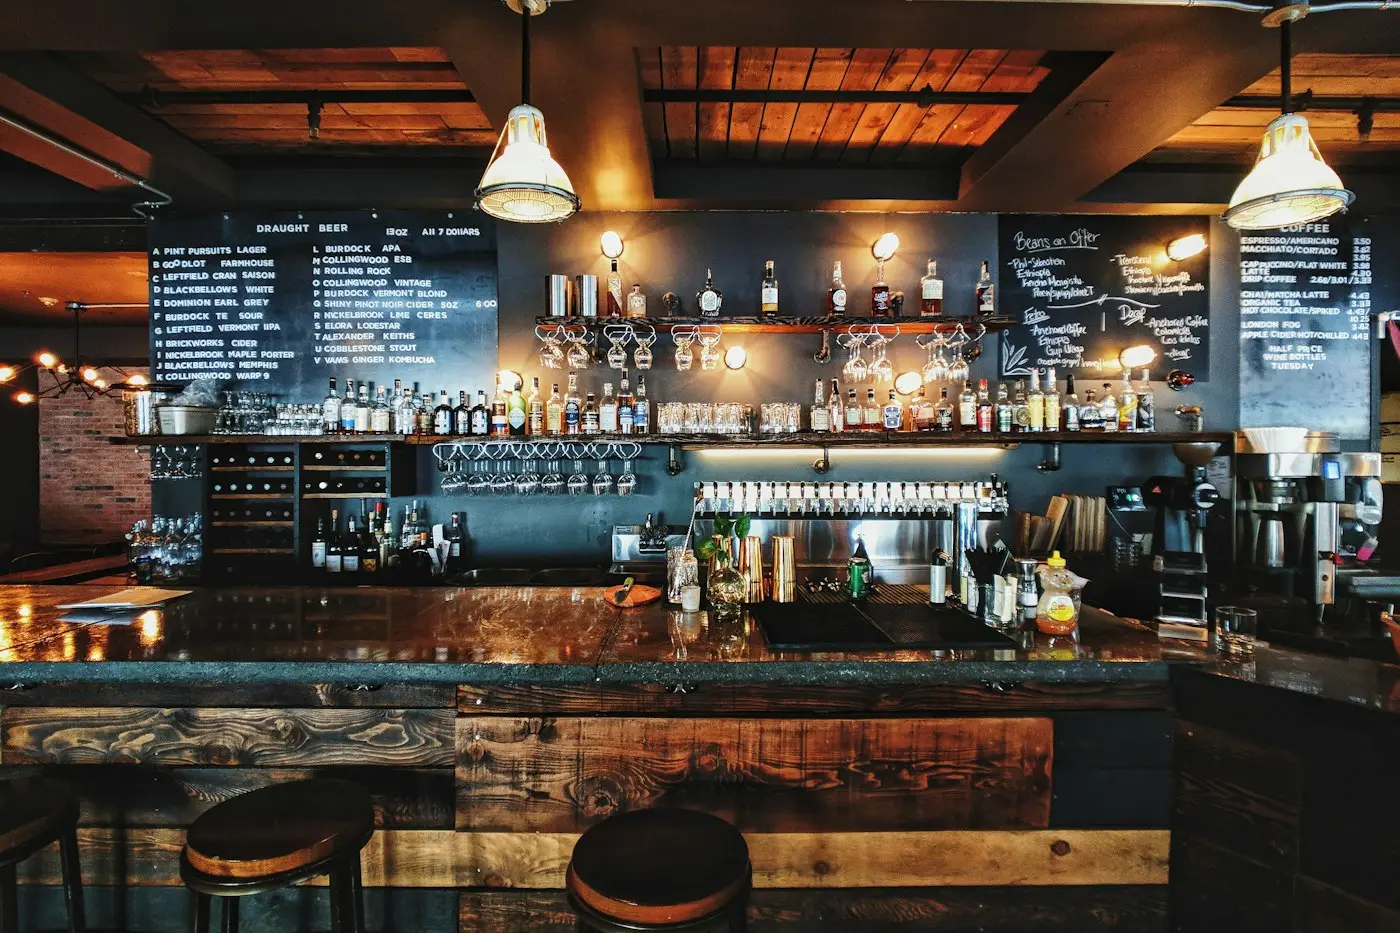
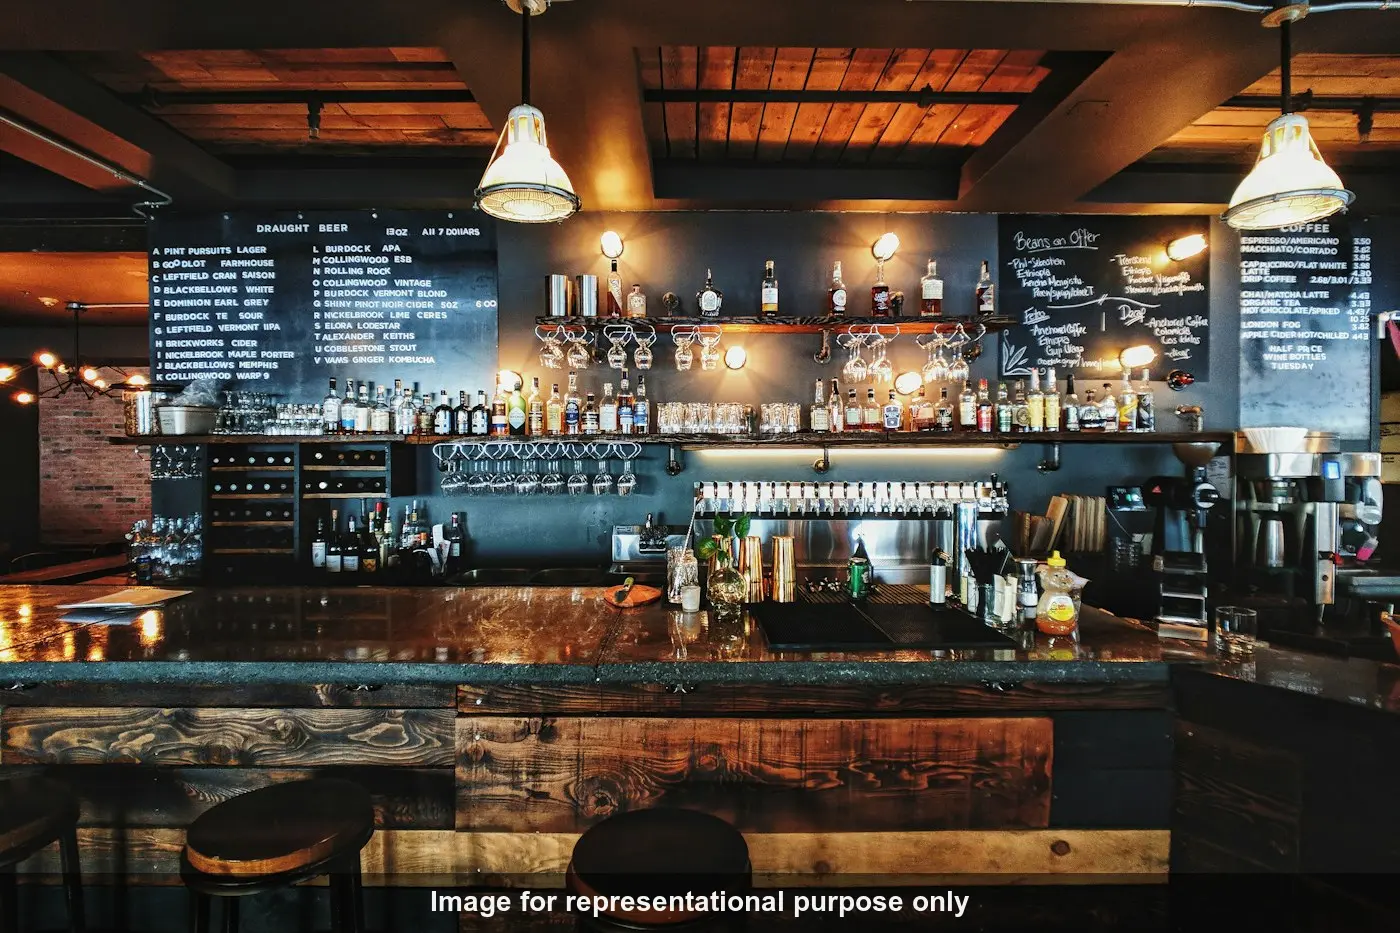
Burn 'Image for representational purpose only' into the sample photos
Layouts anchor these photos to the bottom so the caption band is never cropped,
and the separate HTML badge is dropped for them.

Changed region(s): [[0.0, 0.9325, 0.8293, 1.0]]

diff --git a/frontend/src/pages/marketplace/ListingDetailPage.js b/frontend/src/pages/marketplace/ListingDetailPage.js
@@ -9,7 +9,7 @@ import { listingsAPI, paymentAPI } from '../../services/api';
 import { generateSlug } from '../../utils/slugify';
 import { formatListingPrice, listingPriceParts } from '../../utils/formatPrice';
 import { loadRazorpay } from '../../utils/loadRazorpay';
-import { getCategoryMeta, getSpecs, getPropertyFacts, parseAmenities, formatLocation, categoryImage, resolveImage, priceLabelFor, isSampleImage, SAMPLE_IMAGE_NOTE, CONTACT_FEE } from '../../utils/hospitality';
+import { getCategoryMeta, getSpecs, getPropertyFacts, parseAmenities, formatLocation, categoryImage, resolveImage, priceLabelFor, isSampleImage, hasBurnedInNote, SAMPLE_IMAGE_NOTE, CONTACT_FEE } from '../../utils/hospitality';
 import { useAuth } from '../../context/AuthContext';
 import Seo, { absoluteUrl, truncate, SITE_URL } from '../../components/common/Seo';
 import toast from 'react-hot-toast';
@@ -259,7 +259,7 @@ const ListingDetailPage = () => {
               src={gallery[imageIndex]}
               alt={listing.displayTitle}
               onError={(e) => { e.currentTarget.src = categoryImage(categoryName); }}
-              className="h-full w-full object-cover"
+              className={`h-full w-full object-cover ${hasBurnedInNote(gallery[imageIndex]) ? 'object-bottom' : ''}`}
             />
             {gallery.length > 1 && (
               <>
@@ -269,12 +269,12 @@ const ListingDetailPage = () => {
                 <button type="button" onClick={() => step(1)} aria-label="Next photo" className="absolute right-4 top-1/2 flex h-10 w-10 -translate-y-1/2 items-center justify-center rounded-full bg-gray-950/70 text-gray-50 backdrop-blur transition-opacity md:opacity-0 md:group-hover:opacity-100">
                   <PiCaretRight className="h-5 w-5" />
                 </button>
-                <span className="absolute bottom-4 right-4 rounded-full bg-gray-950/70 px-3 py-1 text-xs font-medium text-gray-100 backdrop-blur">
+                <span className={`absolute right-4 rounded-full bg-gray-950/70 px-3 py-1 text-xs font-medium text-gray-100 backdrop-blur ${hasBurnedInNote(gallery[imageIndex]) ? 'bottom-12' : 'bottom-4'}`}>
                   {imageIndex + 1} / {gallery.length}
                 </span>
               </>
             )}
-            {(images.length === 0 || isSampleImage(gallery[imageIndex])) && (
+            {(images.length === 0 || isSampleImage(gallery[imageIndex])) && !hasBurnedInNote(gallery[imageIndex]) && (
               <span className="absolute bottom-4 left-4 rounded-full bg-gray-950/70 px-3 py-1 text-xs text-gray-300 backdrop-blur">{SAMPLE_IMAGE_NOTE}</span>
             )}
           </div>

diff --git a/frontend/src/components/marketplace/ListingCard.js b/frontend/src/components/marketplace/ListingCard.js
@@ -3,7 +3,7 @@ import { Link } from 'react-router-dom';
 import { PiMapPin, PiLockKey, PiArrowUpRight } from 'react-icons/pi';
 import { formatListingPrice } from '../../utils/formatPrice';
 import { generateSlug } from '../../utils/slugify';
-import { getCategoryMeta, getSpecSummary, categoryImage, resolveImage, priceLabelFor, isSampleImage, formatLocation } from '../../utils/hospitality';
+import { getCategoryMeta, getSpecSummary, categoryImage, resolveImage, priceLabelFor, isSampleImage, hasBurnedInNote, formatLocation } from '../../utils/hospitality';
 
 export const listingPath = (listing) =>
   `/listings/${listing.id}-${generateSlug(listing.displayTitle || listing.title, listing.cityName)}`;
@@ -16,7 +16,8 @@ const ListingCard = ({ listing }) => {
   const [loaded, setLoaded] = useState(false);
   const meta = getCategoryMeta(listing.categoryName);
   const image = resolveImage(listing.primaryImage) || categoryImage(listing.categoryName);
-  const representative = isSampleImage(image);
+  const captioned = hasBurnedInNote(image);
+  const representative = isSampleImage(image) && !captioned;
   const specSummary = getSpecSummary(listing.categoryName, listing.categoryDetails);
   const location = formatLocation(listing);
 
@@ -58,7 +59,8 @@ const ListingCard = ({ listing }) => {
           </span>
         )}
 
-        <div className="absolute bottom-3 left-3 right-3 flex items-center gap-1.5 text-xs font-medium text-gray-100">
+        {/* Sits above the caption band burned into sample photos */}
+        <div className={`absolute left-3 right-3 flex items-center gap-1.5 text-xs font-medium text-gray-100 ${captioned ? 'bottom-7' : 'bottom-3'}`}>
           <PiMapPin className="h-4 w-4 shrink-0 text-primary-300" />
           <span className="truncate">{location || 'India'}</span>
           {representative && <span className="ml-auto shrink-0 text-[10px] font-normal text-gray-300/80">Representative image</span>}

diff --git a/frontend/src/utils/hospitality.js b/frontend/src/utils/hospitality.js
@@ -155,6 +155,8 @@ export const SAMPLE_IMAGE_DIR = '/images/listing-samples/';
 export const isSampleImage = (src) => typeof src === 'string'
   && (src.startsWith(SAMPLE_IMAGE_DIR) || src.startsWith('https://images.unsplash.com/'));
 export const SAMPLE_IMAGE_NOTE = 'Image for representation purpose only';
+// Self-hosted samples carry the note burned into a band along their bottom edge
+export const hasBurnedInNote = (src) => typeof src === 'string' && src.startsWith(SAMPLE_IMAGE_DIR);
 
 /**
  * Category-specific facts in display order.
